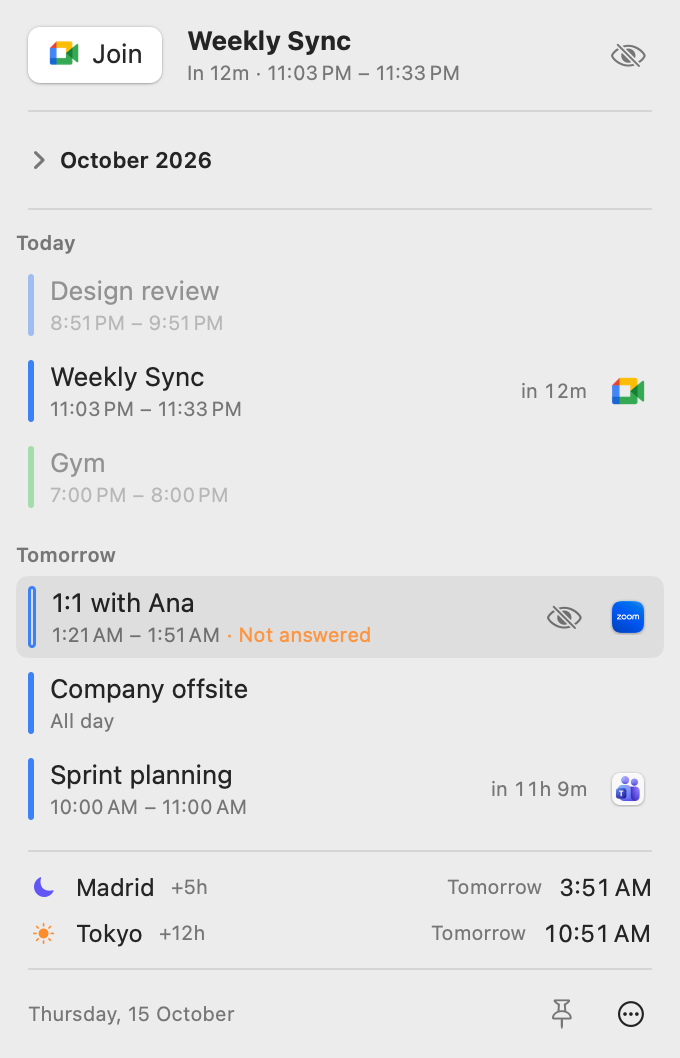
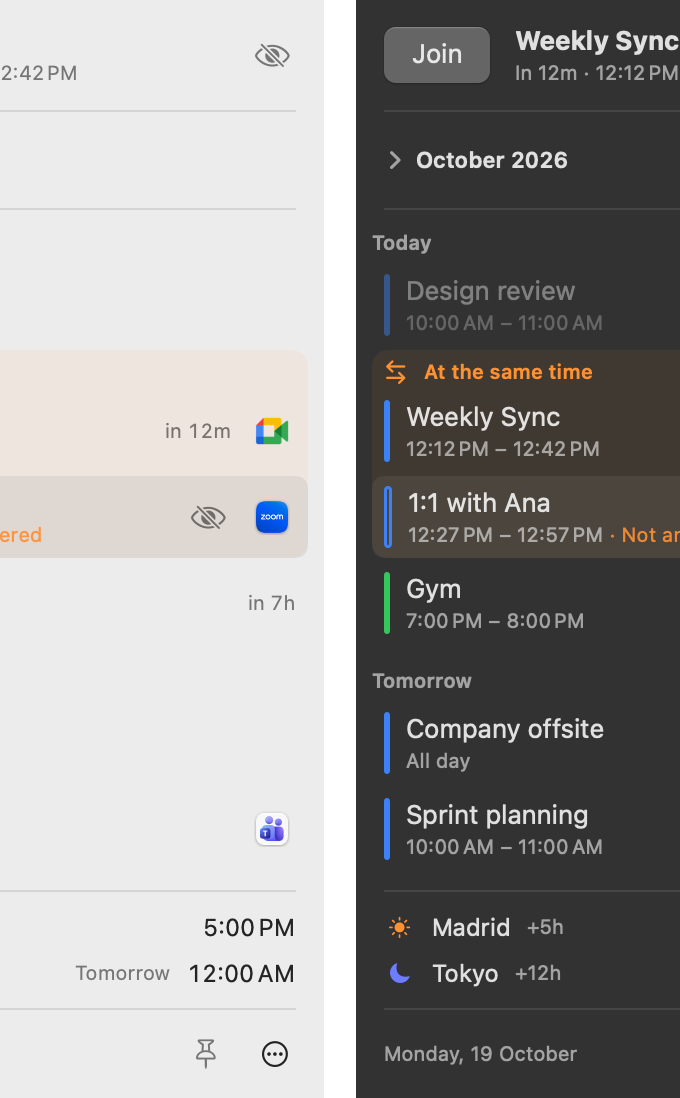
feat(panel): the hero Join button shows the global shortcut in small type; site panel images and a double-booking card

diff --git a/docs/index.html b/docs/index.html
@@ -69,7 +69,7 @@
         <svg class="sys" viewBox="0 0 28 14"><rect x="1" y="2" width="22" height="10" rx="3" fill="none" stroke="currentColor" stroke-width="1.4"/><rect x="2.8" y="3.8" width="18.4" height="6.4" rx="1.6"/><path d="M24.6 5.2v3.6a1.9 1.9 0 0 0 0-3.6z"/></svg>
         <span class="clock sys">Thu 16 Oct 9:41 AM</span>
       </div>
-      <picture><source srcset="img/panel-dark.png" media="(prefers-color-scheme: dark)"><img class="panel" src="img/panel.png" alt="" width="340" height="529"></picture>
+      <picture><source srcset="img/panel-dark.png" media="(prefers-color-scheme: dark)"><img class="panel" src="img/panel.png" alt="" width="340" height="549"></picture>
     </div>
   </section>
 
@@ -83,7 +83,7 @@
     </div>
     <div class="shots">
       <figure>
-        <picture><source srcset="img/panel-dark.png" media="(prefers-color-scheme: dark)"><img src="img/panel.png" alt="The panel" width="340" height="529"></picture>
+        <picture><source srcset="img/panel-dark.png" media="(prefers-color-scheme: dark)"><img src="img/panel.png" alt="The panel" width="340" height="549"></picture>
         <figcaption data-en><b>Panel.</b> Click the menu bar item: the next meeting with Join, today and tomorrow, a month view and your world clocks.</figcaption>
         <figcaption data-es hidden><b>Panel.</b> Clic en la barra: la próxima reunión con Unirse, hoy y mañana, vista mensual y tus relojes.</figcaption>
       </figure>
@@ -122,6 +122,7 @@
       <div class="card" data-en><h3>Sharing your screen</h3><p>Hide event titles and the menu bar says “Meeting • in 12m” until you turn them back on.</p></div>
       <div class="card" data-en><h3>Days off at a glance</h3><p>Holidays and time off (Out of office, PTO, vacation) tint their days in the month view. Up to three dots under a day say how busy it is.</p></div>
       <div class="card" data-en><h3>One event, not two</h3><p>A personal event mirrored into your work calendar shows once, even when the copy just says “Busy”.</p></div>
+      <div class="card" data-en><h3>Double booked?</h3><p>Meetings that share a slot sit together in the list under “At the same time”, so you see the clash before it happens and pick one.</p></div>
       <div class="card" data-en><h3>Start a call</h3><p>Need a room right now? Start a Google Meet, Zoom or Teams call from the panel's ••• menu.</p></div>
       <div class="card" data-en><h3>Updates itself</h3><p>New versions download in the background. A dot on the menu bar icon says one is ready; it installs when you relaunch.</p></div>
       <div class="card" data-en><h3>In your language</h3><p>English and Spanish, following your Mac. Time off is recognised in nine languages.</p></div>
@@ -134,6 +135,7 @@
       <div class="card" data-es hidden><h3>Compartiendo pantalla</h3><p>Ocultá los títulos y la barra dice “Reunión • en 12m” hasta que los vuelvas a mostrar.</p></div>
       <div class="card" data-es hidden><h3>Días libres de un vistazo</h3><p>Feriados y días libres (Out of office, PTO, vacaciones) tiñen sus días en el mes. Hasta tres puntos debajo de un día dicen qué tan cargado está.</p></div>
       <div class="card" data-es hidden><h3>Un evento, no dos</h3><p>Un evento personal copiado a tu calendario de trabajo aparece una vez, aunque la copia diga solo “Ocupado”.</p></div>
+      <div class="card" data-es hidden><h3>¿Doble turno?</h3><p>Las reuniones que comparten horario van juntas en la lista bajo “A la misma hora”, así ves el choque antes de que pase y elegís una.</p></div>
       <div class="card" data-es hidden><h3>Arrancar una llamada</h3><p>¿Necesitás una sala ya? Iniciá una llamada de Google Meet, Zoom o Teams desde el menú ••• del panel.</p></div>
       <div class="card" data-es hidden><h3>Se actualiza sola</h3><p>Las versiones nuevas se descargan solas. Un punto en el ícono de la barra avisa que hay una lista; se instala al reabrir.</p></div>
       <div class="card" data-es hidden><h3>En tu idioma</h3><p>Inglés y español, según tu Mac. Los días libres se reconocen en nueve idiomas.</p></div>

diff --git a/Sources/Calenbar/Panel/HeroEventView.swift b/Sources/Calenbar/Panel/HeroEventView.swift
@@ -17,9 +17,17 @@ struct HeroEventView: View {
                     MeetingOpener.open(link, eventKey: event.key)
                 } label: {
                     // Text only: at this size a logo (or a tile behind it) outweighs the word, and
-                    // the service already shows in the event's row and card.
-                    Text("Join")
-                        .padding(.horizontal, 6)
+                    // the service already shows in the event's row and card. The global shortcut
+                    // rides along in small type, the way menus print theirs.
+                    HStack(spacing: 5) {
+                        Text("Join")
+                        if let shortcut = model.settings.joinShortcut {
+                            Text(verbatim: shortcut.display)
+                                .font(.caption2)
+                                .opacity(0.7)
+                        }
+                    }
+                    .padding(.horizontal, 4)
                 }
                 .buttonStyle(.bordered)
                 .controlSize(.large)
